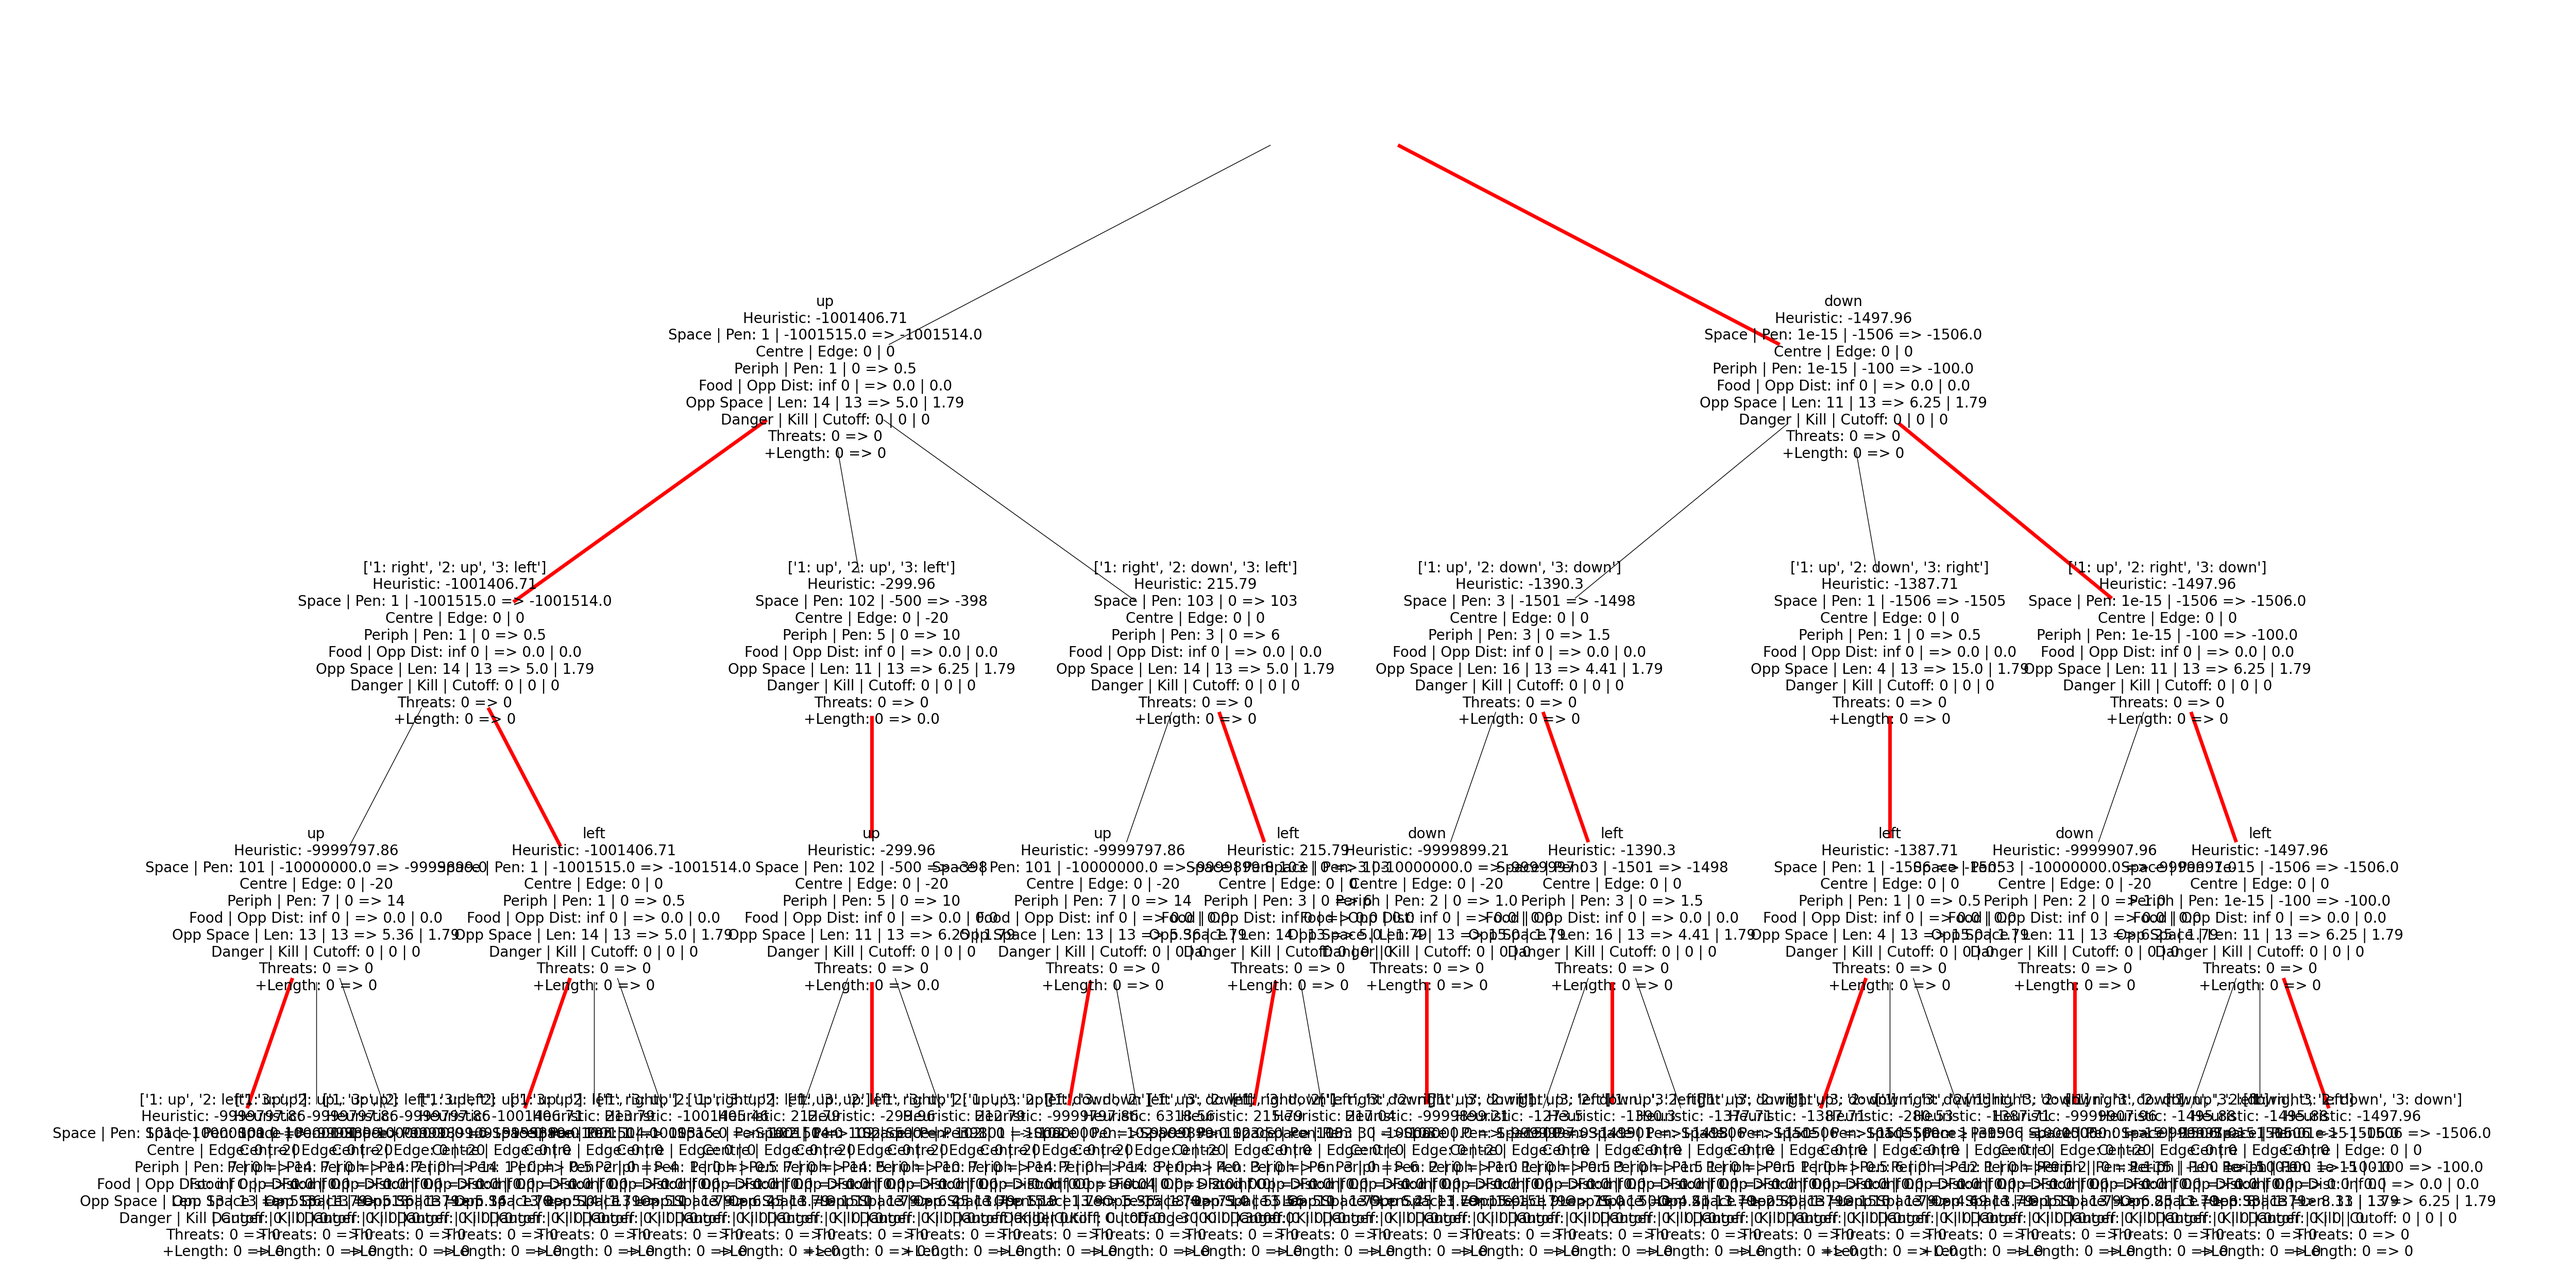
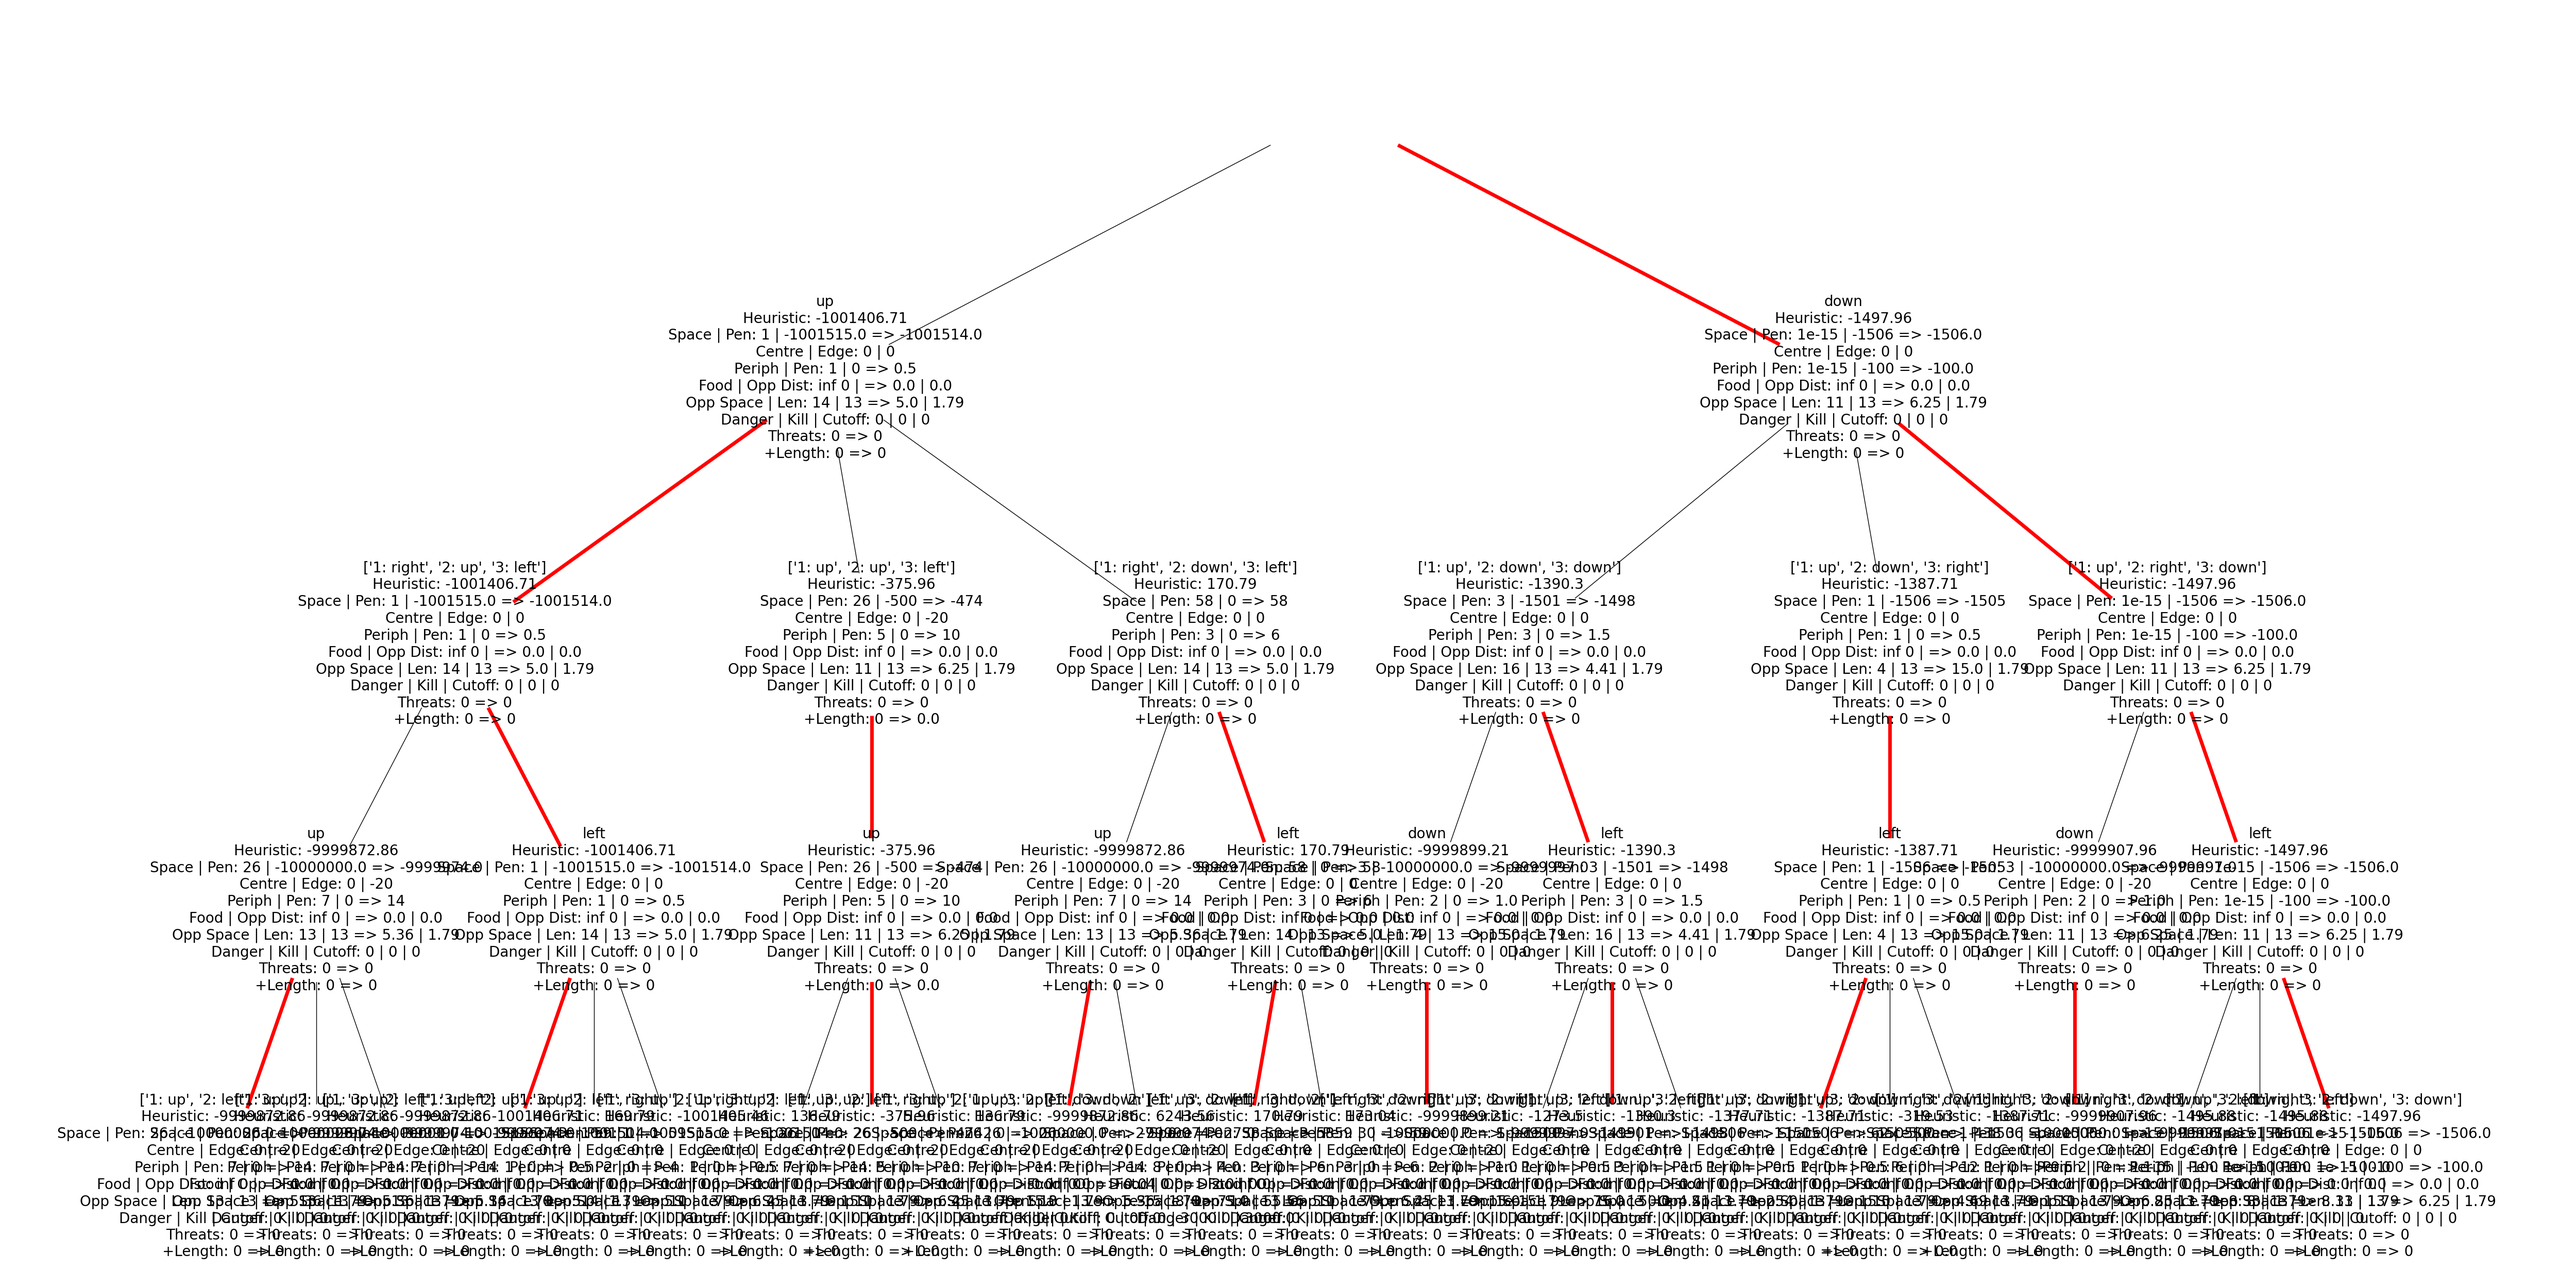
Sped up a bit

diff --git a/Board.py b/Board.py
@@ -27,6 +27,7 @@ class Board:
         self.all_snakes = all_snakes
         self.board = np.full((self.width, self.height), " ")
         if previous_graph is None:
+            print("AAAAAA")
             self.graph = nx.grid_2d_graph(self.width, self.height)
         else:
             self.graph = previous_graph
@@ -190,23 +191,20 @@ class Board:
             return shortest
 
     def graph_simulation(self, movements, undo: Optional[bool] = False):
-        # print(movements)
         if not undo:
-            if (8,3) in movements["add"]:
-                h = 0
             self.check_missing_nodes(self.graph, movements["remove"])
             self.graph.remove_nodes_from(movements["add"])
-            for added in movements["remove"]:
-                assert added in self.graph.nodes
-            for removed in movements["add"]:
-                assert removed not in self.graph.nodes
+            # for added in movements["remove"]:
+            #     assert added in self.graph.nodes
+            # for removed in movements["add"]:
+            #     assert removed not in self.graph.nodes
         else:
             self.check_missing_nodes(self.graph, movements["add"])
             self.graph.remove_nodes_from(movements["remove"])
-            for added in movements["add"]:
-                assert added in self.graph.nodes
-            for removed in movements["remove"]:
-                assert removed not in self.graph.nodes
+            # for added in movements["add"]:
+            #     assert added in self.graph.nodes
+            # for removed in movements["remove"]:
+            #     assert removed not in self.graph.nodes
 
     @staticmethod
     def check_missing_nodes(G: nx.Graph, nodes: list[tuple]) -> tuple[nx.Graph, list]:
@@ -226,14 +224,14 @@ class Board:
         # If the desired location is on a hazard/snake, then it's absent from the graph, and we want to add in the node
         added_nodes = []
         for num, node in enumerate(nodes):
-            if node not in G.nodes():
+            if not G.has_node(node):
                 added_nodes.append(node)
                 G.add_node(node)
                 x, y = node
                 # Include edges to connect the added node to surrounding nodes if possible
                 possible_edges = [(x - 1, y), (x + 1, y), (x, y - 1), (x, y + 1)]
                 for e in possible_edges:
-                    if e in G.nodes:
+                    if G.has_node(e):
                         G.add_edge(node, e)
         return G, added_nodes
 
@@ -546,9 +544,13 @@ class Board:
                 return
 
             board[x][y] = "£"
-            neighbours = pos.adjacent_pos(len(board), len(board[0]))
-            for n in neighbours:
-                fill(n, board, initial_square=False, avoid_risk=avoid_risk)
+            # neighbours = pos.adjacent_pos(len(board), len(board[0]))
+            # for n in neighbours:
+            #     fill(n, board, initial_square=False, avoid_risk=avoid_risk)
+            avoid_sq = [(x - 1, y), (x + 1, y), (x, y - 1), (x, y + 1)]
+            for n in avoid_sq:
+                if not (n[0] == pos.x and n[1] == pos.y) and (0 <= n[0] < len(board) and 0 <= n[1] < len(board[0])):
+                    fill(Pos({"x": n[0], "y": n[1]}), board, initial_square=False, avoid_risk=avoid_risk)
 
         boundaries = []
         heads_in_contact = []

diff --git a/snake_engine.py b/snake_engine.py
@@ -585,12 +585,8 @@ class Battlesnake:
             else:
                 confine_to = "auto"
 
-            decide_risk = True if self.you.length > self.all_snakes[closest_enemy].length else False
-
-            # enemy_space_ra, enemy_space_all, _, _ = self.board.flood_fill(closest_enemy, full_package=True)
+            available_enemy_space_ra, available_enemy_space_all, _, _ = self.board.flood_fill(closest_enemy, full_package=True)
             available_enemy_space = self.board.flood_fill(closest_enemy, risk_averse=True, confine_to=confine_to)
-            available_enemy_space_ra = self.board.flood_fill(closest_enemy, risk_averse=True)
-            available_enemy_space_all = self.board.flood_fill(closest_enemy, risk_averse=False)
 
             aggression_okay = self.you.length >= 6 and space_ra >= 5 or (self.you.length < 6 and
                                                       ( self.all_snakes[closest_enemy].head.x in [0, 1, self.board.width - 2, self.board.width - 1] and
@@ -867,7 +863,6 @@ class Battlesnake:
             # Each child node will be a new board simulating a possible move
             for num, move in enumerate(possible_moves):
                 simulation, you_movements = self.simulate_move({self.you.id: move})
-                # print(you_movements)
                 logging.info(f"Visiting {num + 1} of {len(possible_moves)} child nodes: {move}")
                 if self.debugging:
                     logging.info(simulation.board.display(show=False))
@@ -1009,7 +1004,6 @@ class Battlesnake:
                     continue
                 # Now simulate a board with the newly created opponent moveset combo!
                 simulation, opp_movements = self.simulate_move(move_combo, evaluate_deaths=True, depth=depth)
-                # print(opp_movements)
                 sim_move_combos.append((simulation, opp_movements))
                 sim_movesets.append(move_combo)
 

diff --git a/Pos.py b/Pos.py
@@ -31,6 +31,11 @@ class Pos:
         """Return the Manhattan distance to another position"""
         return sum(abs(value1 - value2) for value1, value2 in zip(self.as_tuple(), end.as_tuple()))
 
+    def shift(self, vector):
+        self.x += vector[0]
+        self.y += vector[1]
+        return self
+
     def moved_to(self, direction, distance=1):
         """Return this position moved by 1 in a given direction"""
         if direction == "left":
